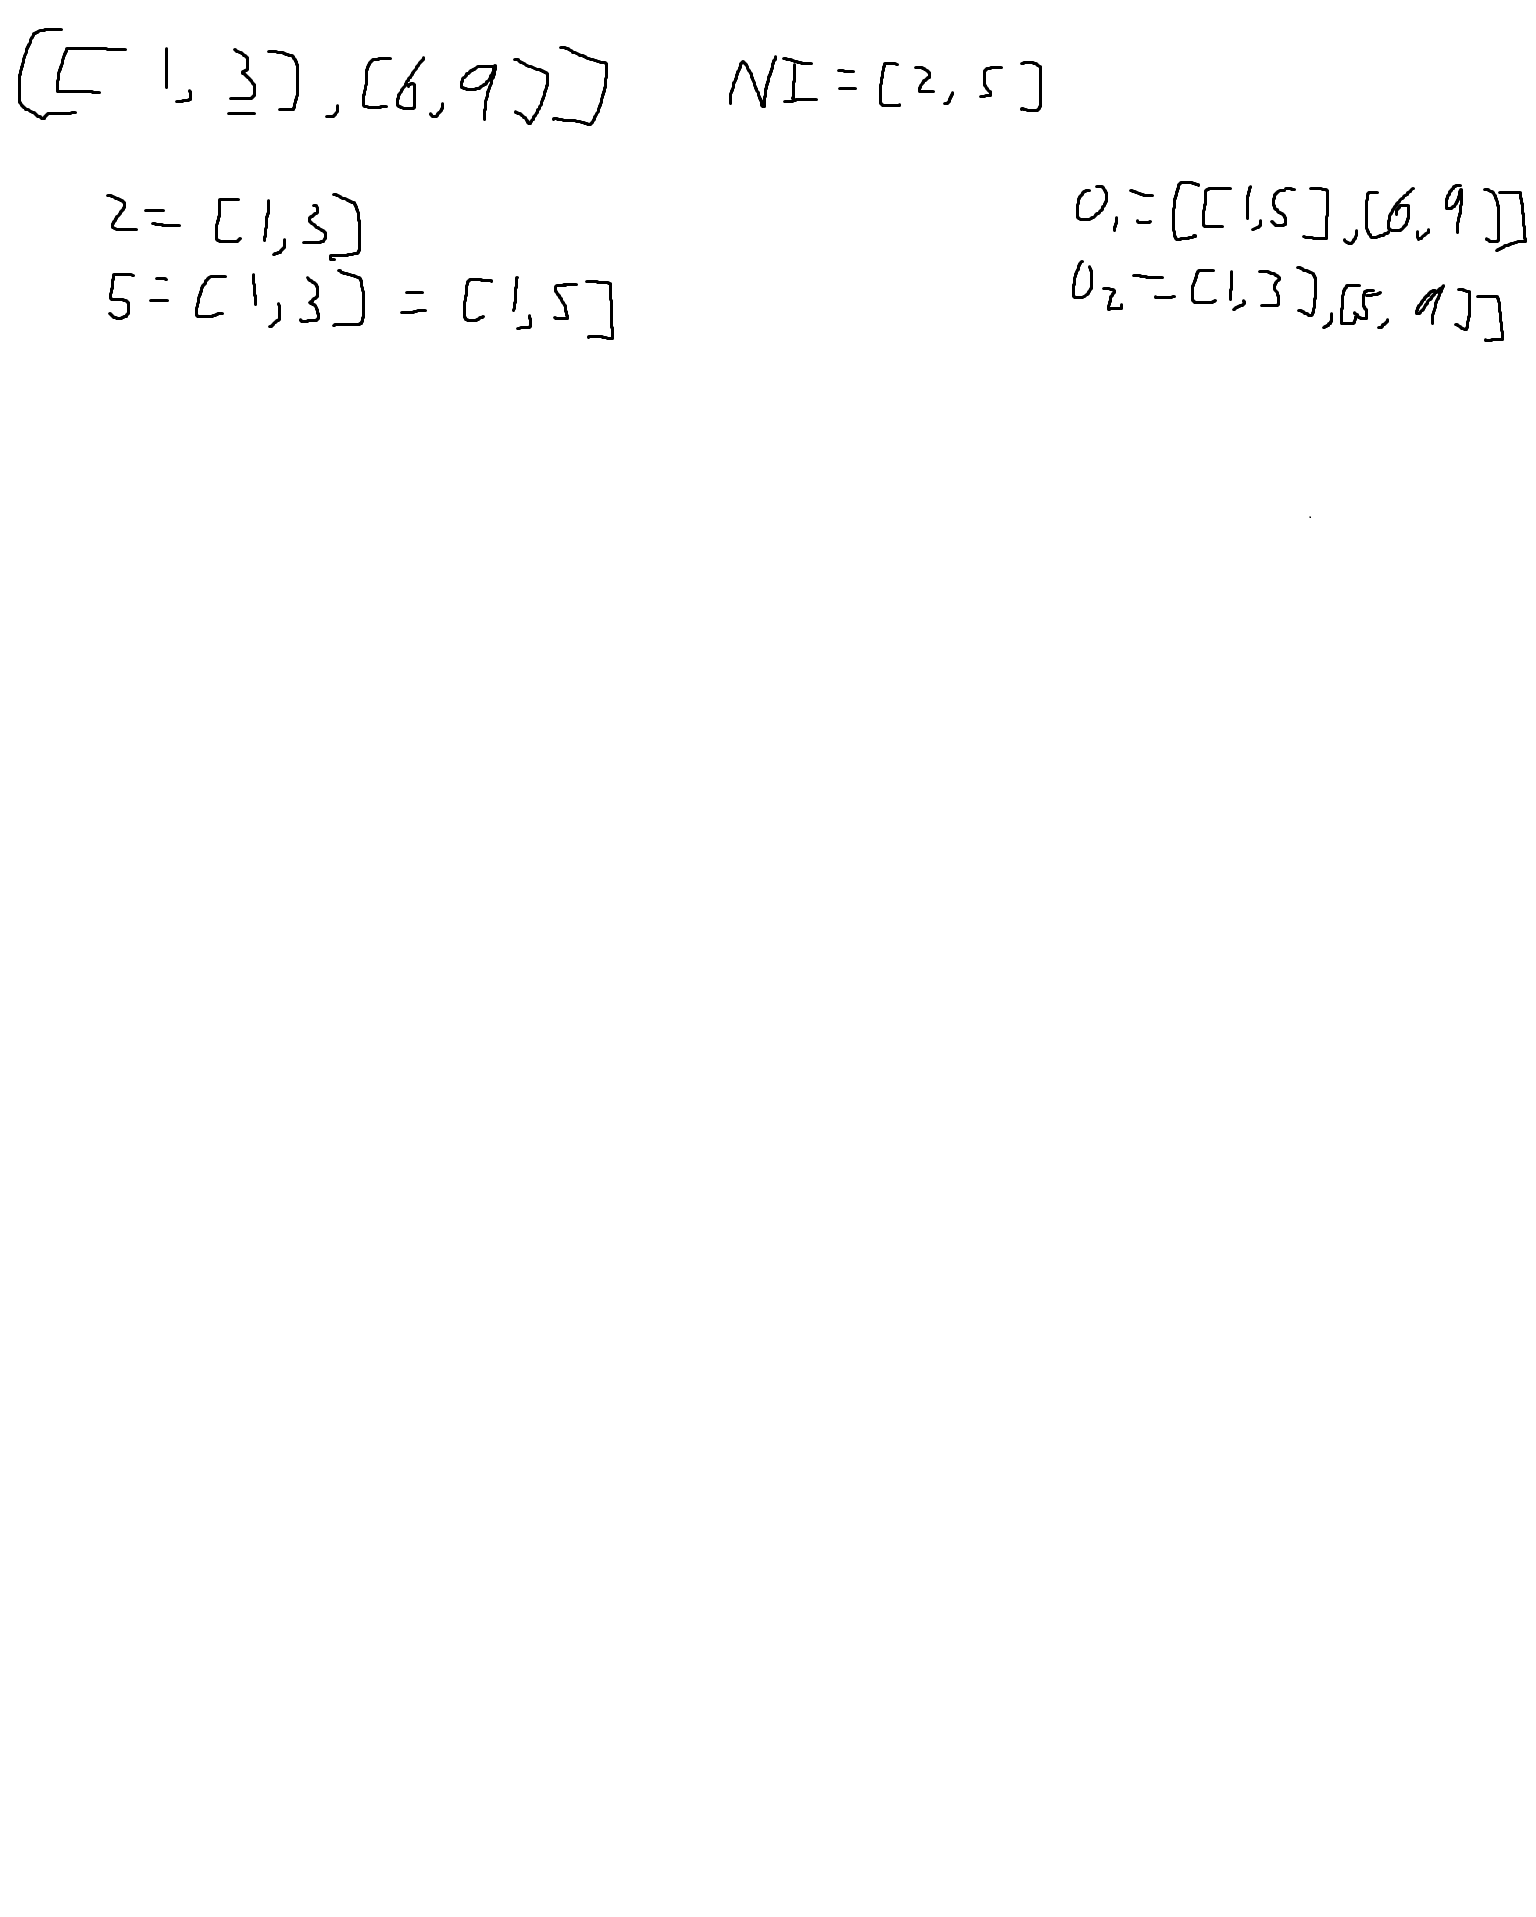
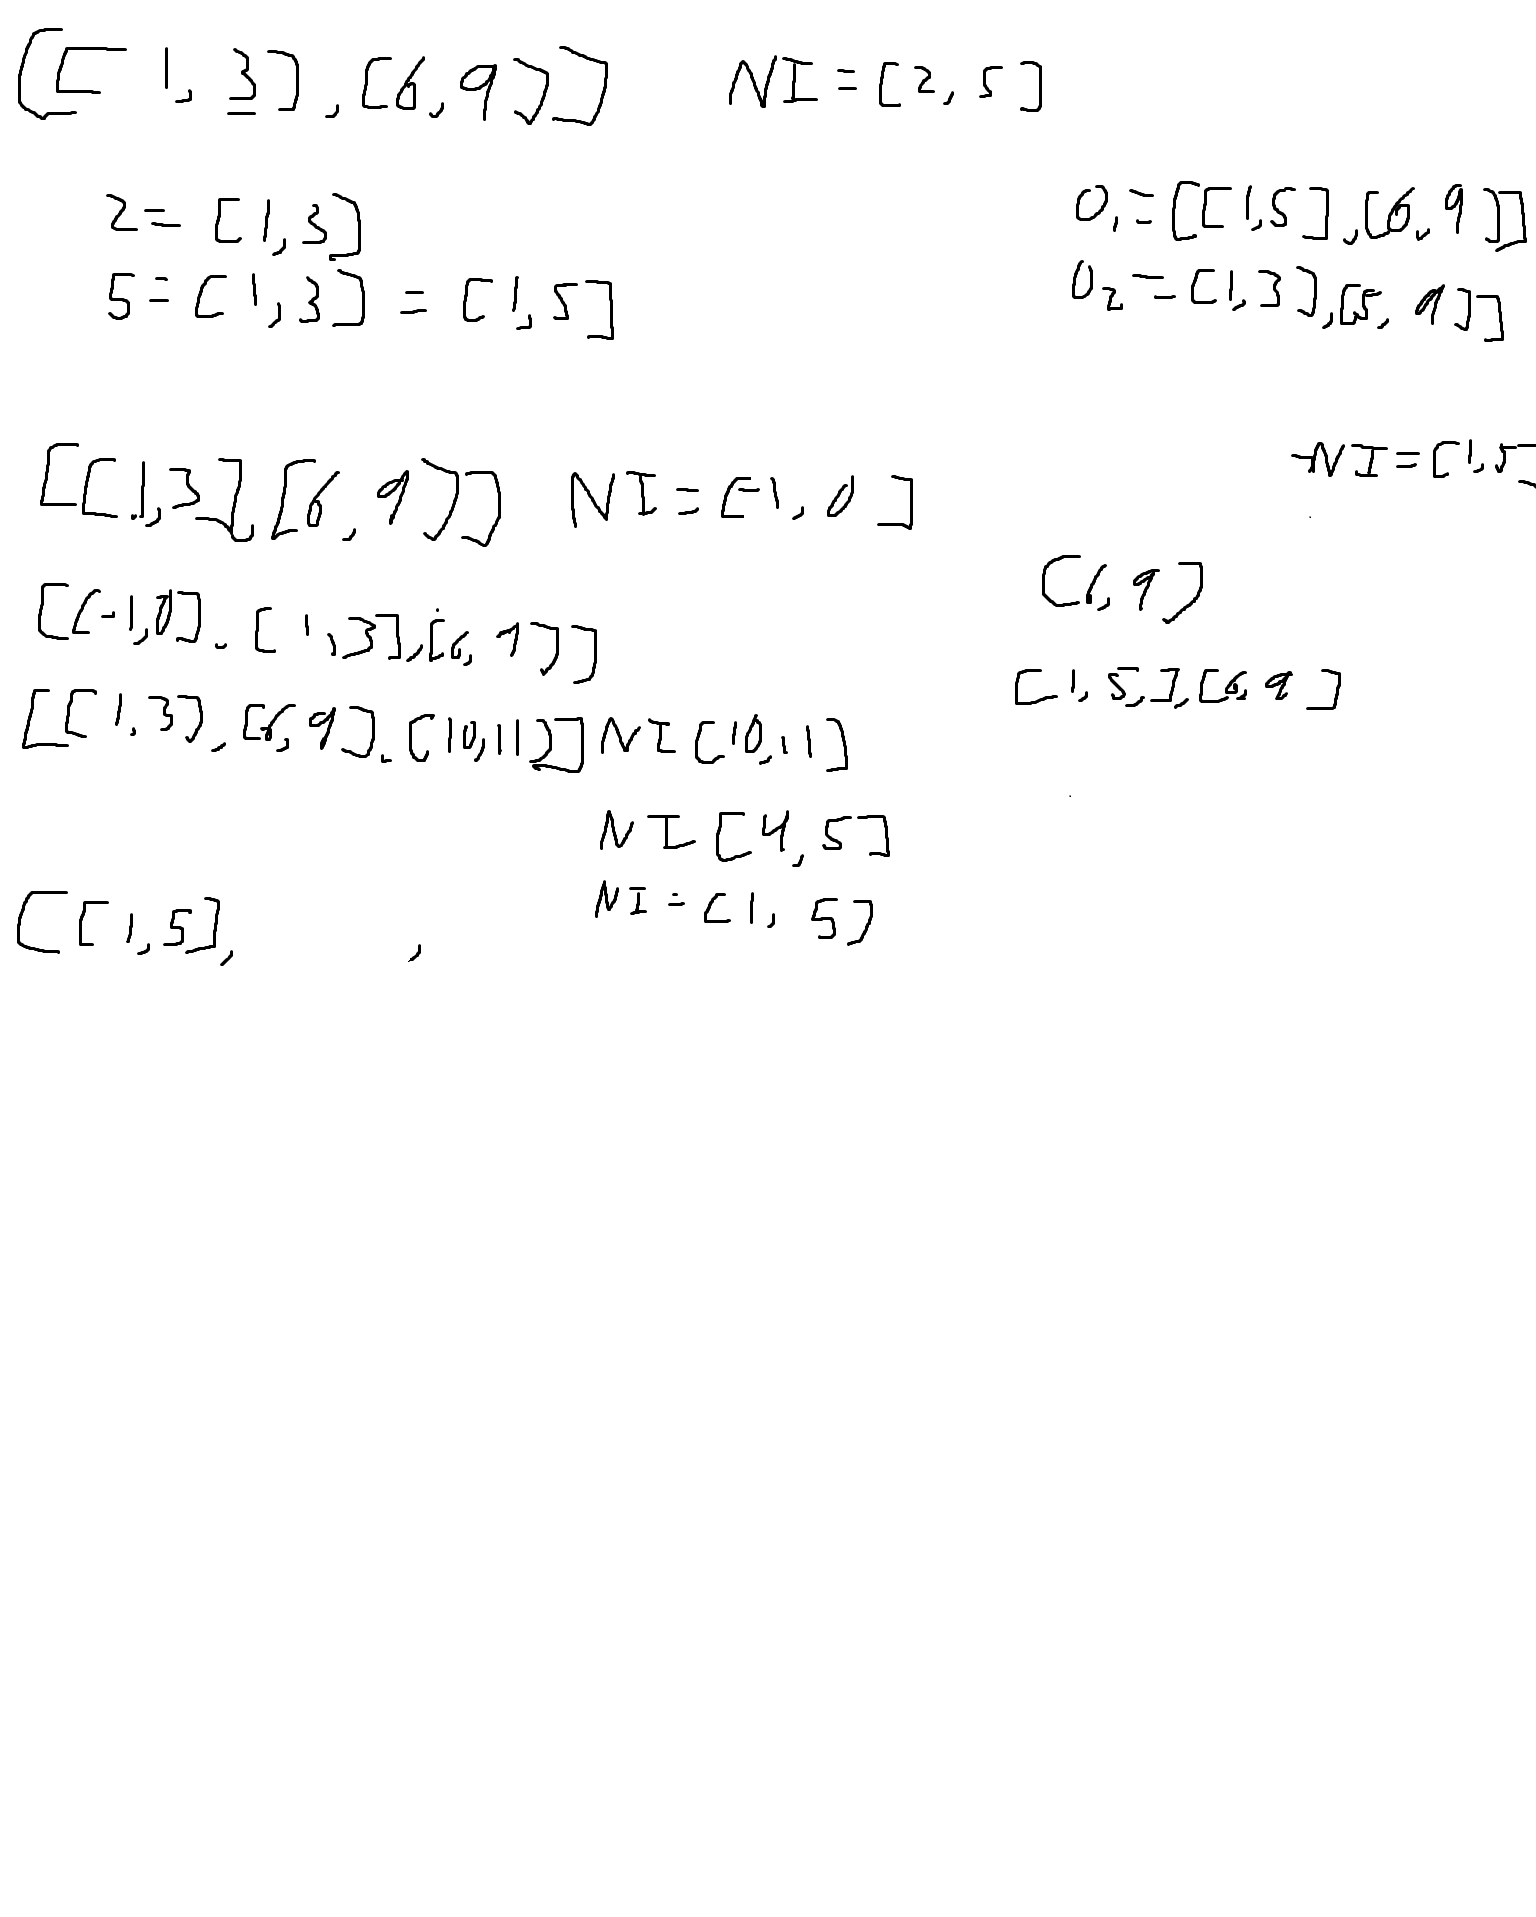
solved insertInterval

diff --git a/src/Medium/InsertInterval/main.cpp b/src/Medium/InsertInterval/main.cpp
@@ -1,19 +1,34 @@
 #include <iostream>
 #include <vector>
 
+// Time Complexity: O(n) where n = each index pair
+// Space Complexity: O(n) where n = each index pair
 std::vector<std::vector<int>> insert(std::vector<std::vector<int>>& intervals, std::vector<int>& newInterval)
 {
-    std::vector<std::vector<int>> result;
+    std::vector<std::vector<int>> result; // build result
+    if (intervals.empty()) {result.push_back(newInterval); return result;} // if interval empty return new interval
+    // Iterate through each interval index
     for (int i = 0; i < intervals.size(); ++i)
     {
-        if (newInterval[1] < intervals[i][0]) result.push_back(newInterval);
-        else if (newInterval[0] > intervals[i][1]) result.push_back(newInterval);
+        // If newIntervals max value is less than current intervals lowest value
+        // place new interval in result and update new interval to be the current interval index
+        if (newInterval[1] < intervals[i][0])
+        {
+            result.push_back(newInterval);
+            newInterval = intervals[i];
+        }
+        // If newIntervals the lowest value is greater than current intervals greatest value
+        // place current interval in results and continue to next interval index
+        else if (newInterval[0] > intervals[i][1]) result.push_back(intervals[i]);
+        // If newInterval merges with current interval then update the new interval
+        // between the lowest and largest values in both and continue to next interval
         else
         {
             newInterval[0] = std::min(newInterval[0], intervals[i][0]);
             newInterval[1] = std::max(newInterval[1], intervals[i][1]);
         }
     }
+    // After the loop ends the newInterval will contain interval that belongs at the end of the list.
     result.push_back(newInterval);
     return result;
 }
